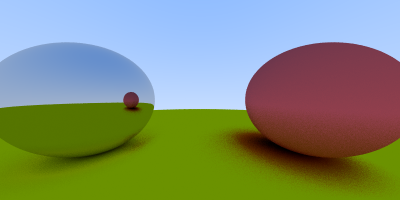
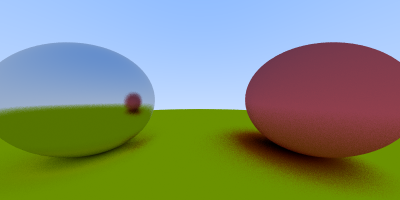
Add a fuzziness parameter to the metallic material

Changed region(s): [[0.0, 0.45, 0.39, 0.57]]

diff --git a/src/material.rs b/src/material.rs
@@ -17,6 +17,7 @@ pub enum Material {
     },
     Metallic {
         albedo: Vector3<f32>,
+        fuzziness: f32,
     }
 }
 
@@ -27,9 +28,10 @@ impl Material {
         }
     }
 
-    pub fn new_metallic(r: f32, g: f32, b: f32) -> Material {
+    pub fn new_metallic(r: f32, g: f32, b: f32, fuzziness: f32) -> Material {
         Material::Metallic {
             albedo: Vector3::new(r, g, b),
+            fuzziness,
         }
     }
 }
@@ -48,11 +50,14 @@ impl Material {
                     attenuation: albedo,
                 })
             },
-            &Material::Metallic{ albedo } => {
-                // Metallic materials just do a simple reflection
-                // Just subtract the normal facing vector from the incoming ray
+            /// Metallic materials just do a simple reflection, with an optional random fuzziness parameter
+            &Material::Metallic{ albedo, fuzziness } => {
+                // Calculate reflected ray vector with some cross products
                 let reflected = ray.direction() - 2.0 * (ray.direction().dot(record.normal)) * record.normal;
-                let bounced_ray = Ray::new(record.position, reflected);
+                // Add an fuziness parameter to the ray bounce direction
+                let fuzzy_ray = reflected + (random_position_in_unit_sphere() * fuzziness);
+                // Create a new ray starting from the hit location and pointing toward the reflected ray dir
+                let bounced_ray = Ray::new(record.position, fuzzy_ray);
 
                 Some(ScatteredRay {
                     ray: bounced_ray,

diff --git a/src/main.rs b/src/main.rs
@@ -62,7 +62,7 @@ fn main() {
 
     let lambertian_red = Material::new_lambertian(0.8, 0.3, 0.3);
     let lambertian_yellow = Material::new_lambertian(0.8, 0.8, 0.0);
-    let metallic = Material::new_metallic(0.8, 0.8, 0.8);
+    let metallic = Material::new_metallic(0.8, 0.8, 0.8, 0.3);
 
     let small_sphere_right = sphere::Sphere::new(Vector3::new(1.0, 0.0, -1.0), 0.5, lambertian_red);
     let small_sphere_left = sphere::Sphere::new(Vector3::new(-1.0, 0.0, -1.0), 0.5, metallic);
@@ -107,18 +107,6 @@ fn main() {
     println!("Raytracing with {} samples took {}", num_samples, format_seconds(elapsed_time.as_secs()));
 
     let _ = image_buffer.save("output.png");
-}
-
-fn random_position_in_unit_sphere() -> Vector3<f32> {
-    let mut rng = rand::thread_rng();
-
-    let mut random_position = Vector3::<f32>::rand(&mut rng);
-
-    while random_position.distance2(Vector3::zero()) >= 1.0 {
-        random_position = Vector3::<f32>::rand(&mut rng);
-    }
-
-    random_position
 }
 
 fn format_seconds(secs: u64) -> String {
